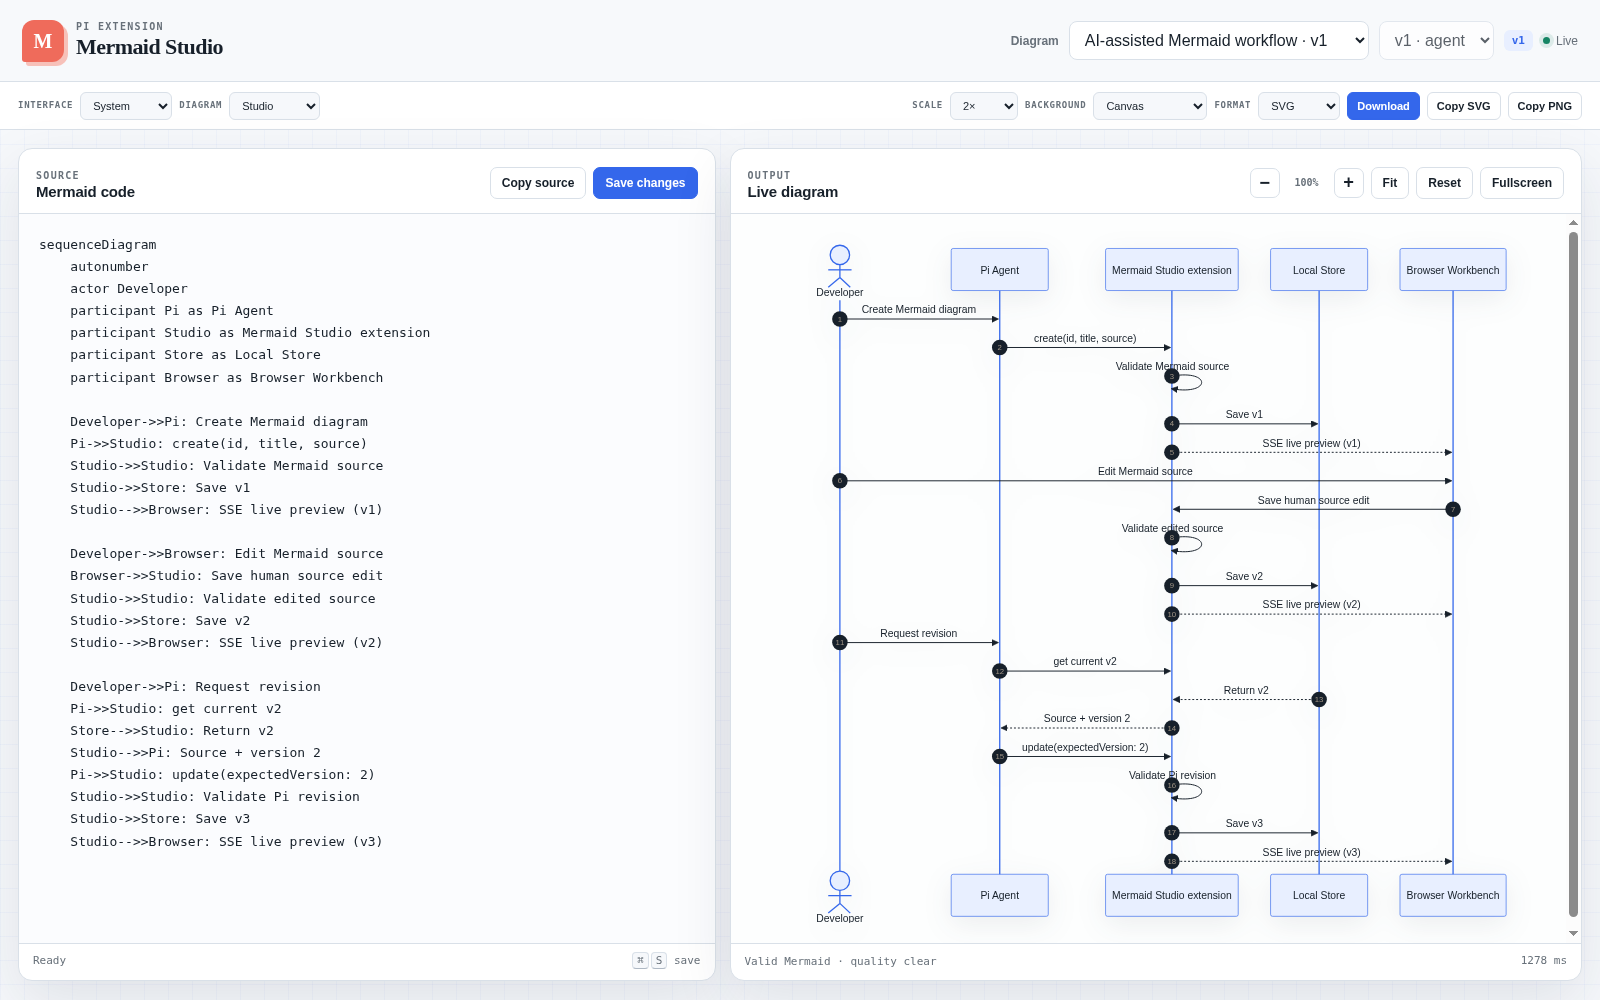
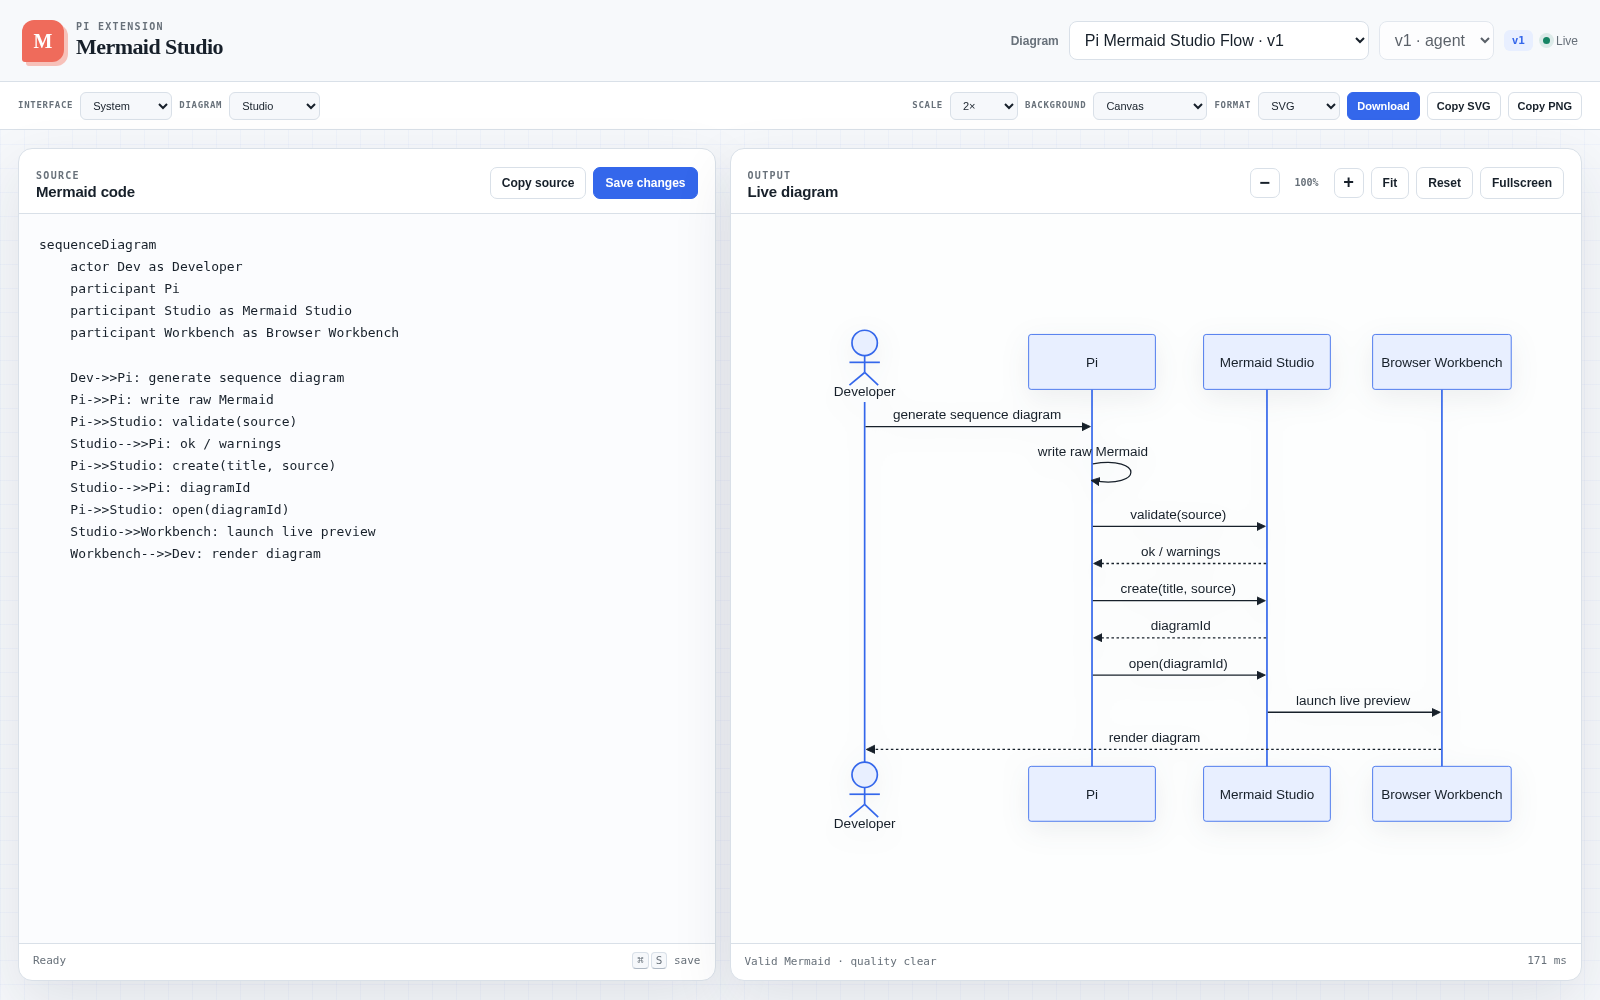
docs: show complete diagram generation flow

diff --git a/README.md b/README.md
@@ -4,9 +4,9 @@ A stateful Mermaid workbench for Pi: the agent creates and revises diagrams, whi
 
 ## Demo
 
-Ask Pi to create or open a diagram. The extension exposes one compact tool and returns a capability-protected localhost workbench URL.
+Ask Pi to create or open a diagram. This real Kimi K2.6 session shows the bundled skill loading focused guidance, then the extension validating, creating, and opening the diagram through one compact tool.
 
-![Pi creating and opening a Mermaid diagram](assets/screenshots/pi-mermaid-studio-tui.png)
+![Pi loading the Mermaid Studio skill, validating a generated diagram, creating it, and opening the workbench](assets/screenshots/pi-mermaid-studio-tui.png)
 
 The workbench keeps Mermaid source and the rendered diagram side by side. Human edits are validated, versioned, and synchronized back to the active Pi session.
 
